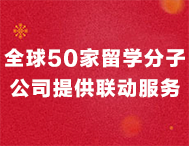
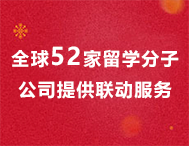
移民分公司的添加   审核  淑琴

Changed region(s): [[0.0529, 0.5205, 0.9524, 0.6849], [0.0265, 0.3014, 0.9788, 0.4658]]

diff --git a/views/yimin_index.html b/views/yimin_index.html
@@ -320,6 +320,18 @@
         "companyId": "48"
         },
         {
+        "companyName": "墨尔本",
+        "companyId": "52"
+        },
+        {
+        "companyName": "奥克兰",
+        "companyId": "51"
+        },
+        {
+        "companyName": "多伦多",
+        "companyId": "50"
+        },
+        {
         "companyName": "温哥华",
         "companyId": "49"
         }
